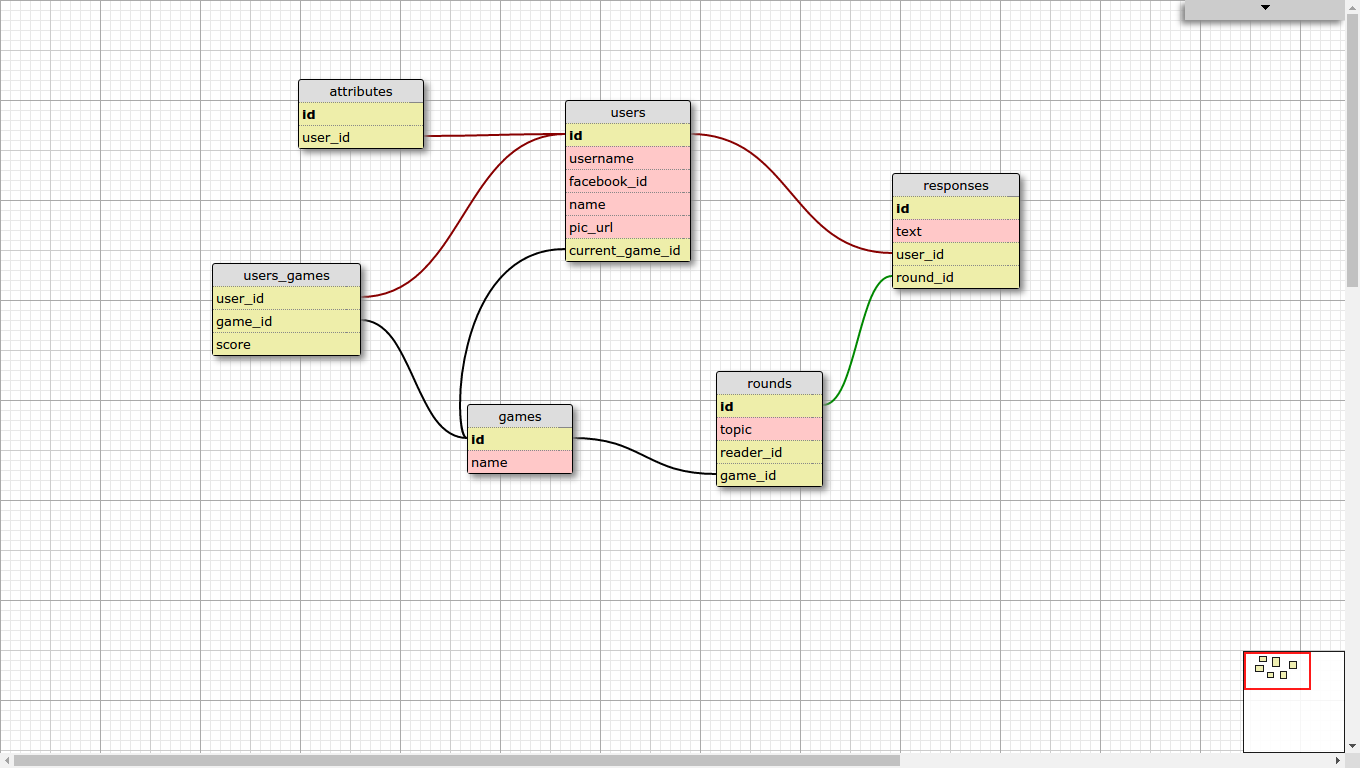
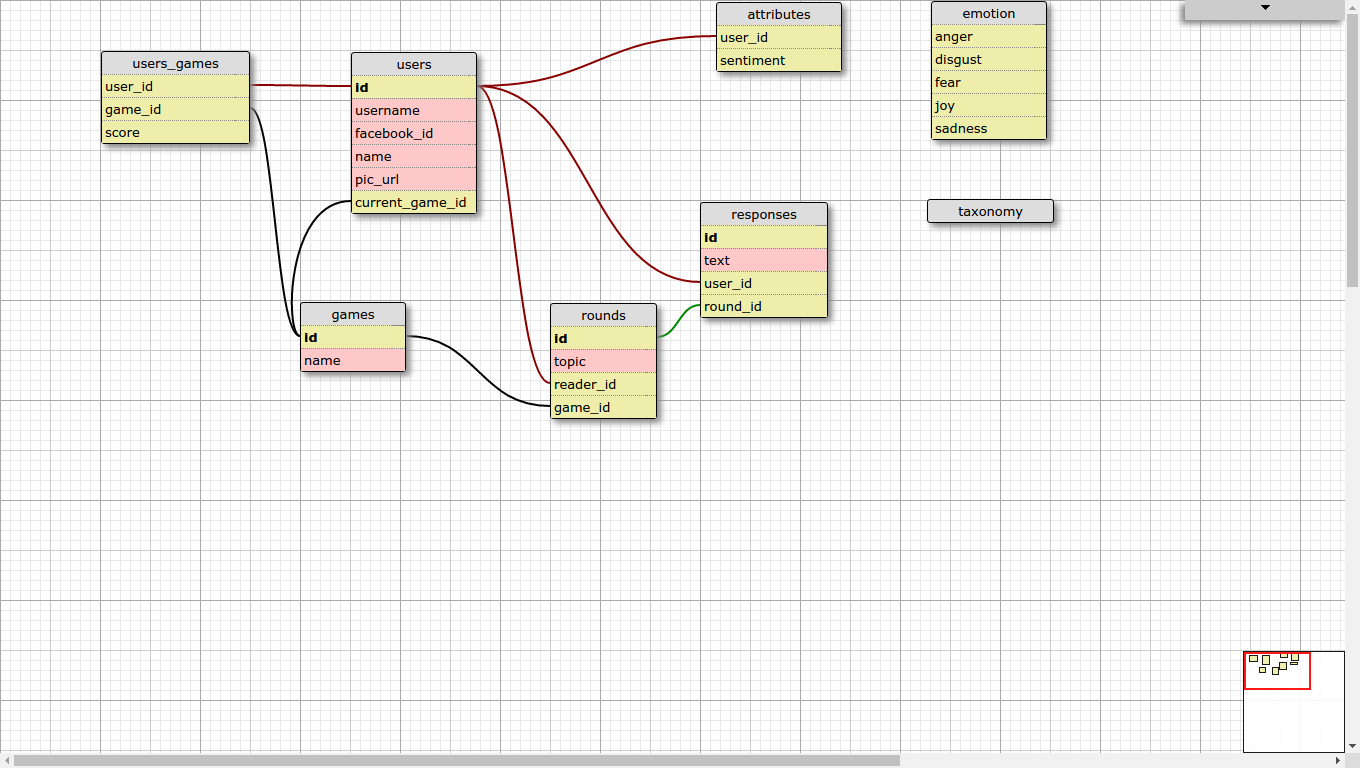
(chore) basic package.json, bower.json (chore) schema image

diff --git a/server/server.js b/server/server.js
@@ -1,0 +1,9 @@
+var express = require('express');
+
+var app = express();
+
+var port = process.env.PORT || 8080;
+
+app.listen(port, function () {
+  console.log('Listening on port ' + port);
+});
